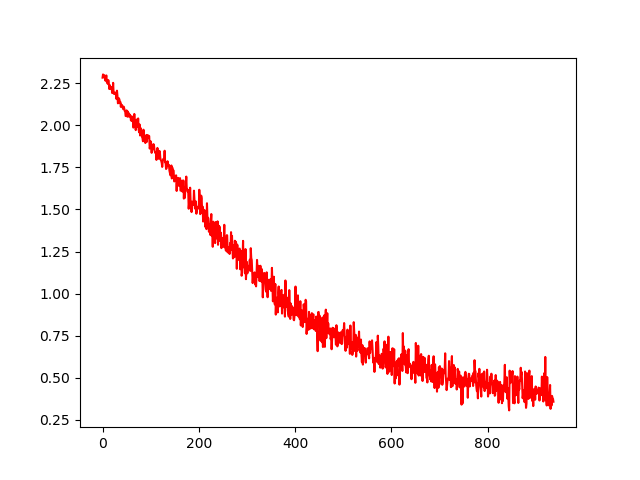
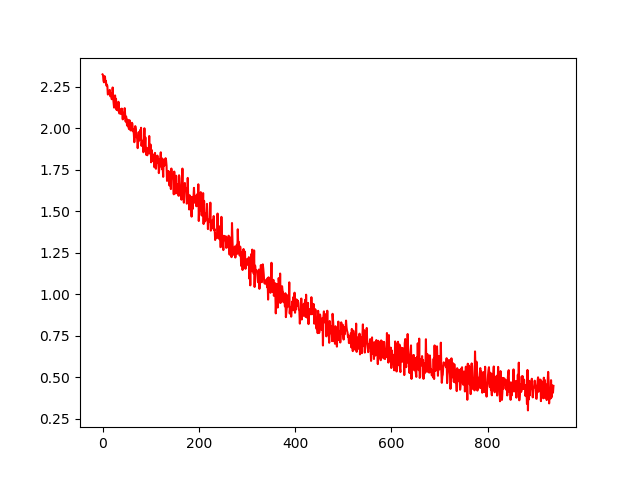
Overlay plots.

diff --git a/batch-norm/bn/run.py b/batch-norm/bn/run.py
@@ -1,4 +1,37 @@
+import matplotlib.pyplot as plt
+
 from bn.train import train, ModelType
 
-train(model_type=ModelType.FF, num_epochs=2)
-train(model_type=ModelType.BN, num_epochs=2)
+l1_mean, l1_std, l2_mean, l2_std, loss_arr, model_type = train(model_type=ModelType.FF, num_epochs=2)
+l1_mean_bn, l1_std_bn, l2_mean_bn, l2_std_bn, loss_arr_bn, model_type_bn = train(model_type=ModelType.BN, num_epochs=2)
+
+"""
+Move plots to another file if they get in the way
+"""
+# plot layer 1
+plt.plot(l1_mean, 'g', label='%s layer 1 input mean' % model_type)
+plt.plot(l1_mean_bn, 'b', label='%s layer 1 input mean' % model_type_bn)
+plt.title('Layer 1 Mean: %s vs. %s' % (model_type, model_type_bn))
+plt.ylabel('Mean Value Before Activation')
+plt.xlabel('Iteration')
+plt.legend(loc='upper left')
+plt.savefig('imgs/l1_mean.png')
+plt.close()
+
+# plot layer 2
+plt.plot(l2_mean, 'g', label='%s layer 1 input mean' % model_type)
+plt.plot(l2_mean_bn, 'b', label='%s layer 1 input mean' % model_type_bn)
+plt.title('Layer 2 Mean: %s vs. %s' % (model_type, model_type_bn))
+plt.ylabel('Mean Value Before Activation')
+plt.xlabel('Iteration')
+plt.legend(loc='upper left')
+plt.savefig('imgs/l2_mean.png')
+plt.close()
+
+# plot model loss
+plt.plot(loss_arr, 'r', label='%s loss' % model_type)
+plt.plot(loss_arr_bn, 'y', label='%s loss' % model_type_bn)
+plt.title('Loss: %s vs. %s' % (model_type, model_type_bn))
+plt.legend(loc='upper right')
+plt.savefig('imgs/loss.png')
+plt.close()

diff --git a/batch-norm/bn/bn/train.py b/batch-norm/bn/bn/train.py
@@ -62,26 +62,10 @@ def train(model_type=ModelType.FF, batch_size=128, num_epochs=2):
 
                 model.train()
 
+    # compute summary
     l1_mean = [x[0] for x in model.l1_dist]
-    plt.plot(l1_mean, 'r', label='%s layer 1 input mean' % model_type.value)
-    plt.savefig('imgs/%s_l1_mean.png' % model_type.value)
-    plt.close()
-
     l1_std = [x[1] for x in model.l1_dist]
-    plt.plot(l1_std, 'r', label='%s layer 1 input std' % model_type.value)
-    plt.savefig('imgs/%s_l1_std.png' % model_type.value)
-    plt.close()
-
     l2_mean = [x[0] for x in model.l2_dist]
-    plt.plot(l2_mean, 'r', label='%s layer 2 input mean' % model_type.value)
-    plt.savefig('imgs/%s_l2_mean.png' % model_type.value)
-    plt.close()
-
     l2_std = [x[1] for x in model.l2_dist]
-    plt.plot(l2_std, 'r', label='%s layer 2 input std' % model_type.value)
-    plt.savefig('imgs/%s_l2_std.png' % model_type.value)
-    plt.close()
 
-    plt.plot(loss_arr, 'r', label='%s loss' % model_type.value)
-    plt.savefig('imgs/%s_loss.png' % model_type.value)
-    plt.close()
+    return l1_mean, l1_std, l2_mean, l2_std, loss_arr, model_type.value
